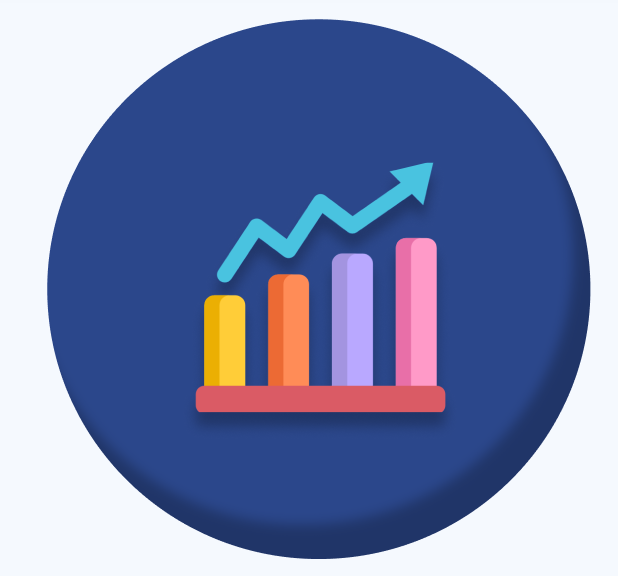
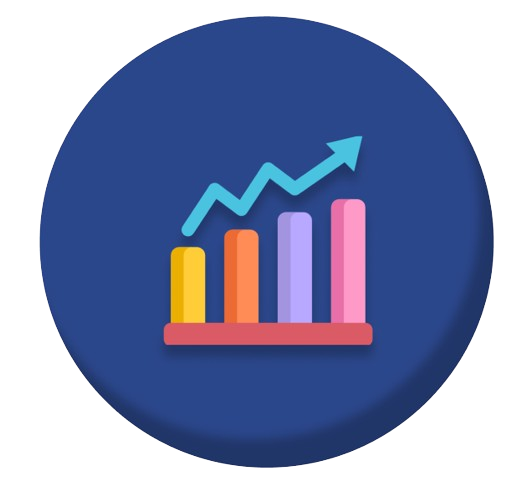
removed background from images and changed the colour randomiser

diff --git a/src/components/Pricing.vue b/src/components/Pricing.vue
@@ -1,5 +1,5 @@
 <template>
-    <div id='main' @click="reset()" @dblclick="swap()" class='main'>
+    <div id='main' class='main'>
         <div class="hidden">space</div>
         <div class="hidden">space</div>
         <h3 style="color:#00008B; font-family: Helvetica"><strong>Pricing</strong></h3>
@@ -68,19 +68,6 @@ export default {
     },
     props:{},
     methods:{
-        swap(){
-            var rgbcolor;
-            var red = Math.floor(Math.random() * 250 + 0);
-            var green = Math.floor(Math.random() * 250 + 0);
-            var blue = Math.floor(Math.random() * 250 + 0);
-
-            rgbcolor = 'rgb(' + red + ',' + green + ',' + blue + ')';
- 
-            document.getElementById('main').style.backgroundColor = rgbcolor;
-        },
-        reset(){
-            document.getElementById('main').style.backgroundColor = 'rgb(255, 255, 255)';
-        }
     }
 }
 </script>
@@ -89,5 +76,21 @@ export default {
 <style scoped>
 .main{
     transition: 0.5s;
+    position: relative;
+    overflow: hidden;
 }
+
+.main::before{
+    content: "";
+  position: absolute;
+  width: 200%;
+  height: 200%;
+  top: -50%;
+  left: -50%;
+  z-index: -1;
+  background: url('../assets/logo.png') 0 0 repeat;
+  transform: rotate(-30deg);
+  opacity: 10%;
+}
+
 </style>

diff --git a/src/components/BudgetTracking.vue b/src/components/BudgetTracking.vue
@@ -1,5 +1,5 @@
 <template>
-<div class="budget">
+<div class="budget" id='main' @click="reset()" @dblclick="swap()">
     <h3 class="hidden">space</h3>
     <h3 style="color:#00008B; font-family: Helvetica" ><strong>Budget Tracking Made Easy</strong></h3>
 
@@ -60,6 +60,19 @@ export default {
     methods: {
         openLink(url){
             window.open(url)
+        },
+        swap(){
+            var rgbcolor;
+            var red = Math.floor(Math.random() * 250 + 0);
+            var green = Math.floor(Math.random() * 250 + 0);
+            var blue = Math.floor(Math.random() * 250 + 0);
+
+            rgbcolor = 'rgb(' + red + ',' + green + ',' + blue + ')';
+ 
+            document.getElementById('main').style.backgroundColor = rgbcolor;
+        },
+        reset(){
+            document.getElementById('main').style.backgroundColor = '#f5f9fe';
         }
     }
 }
